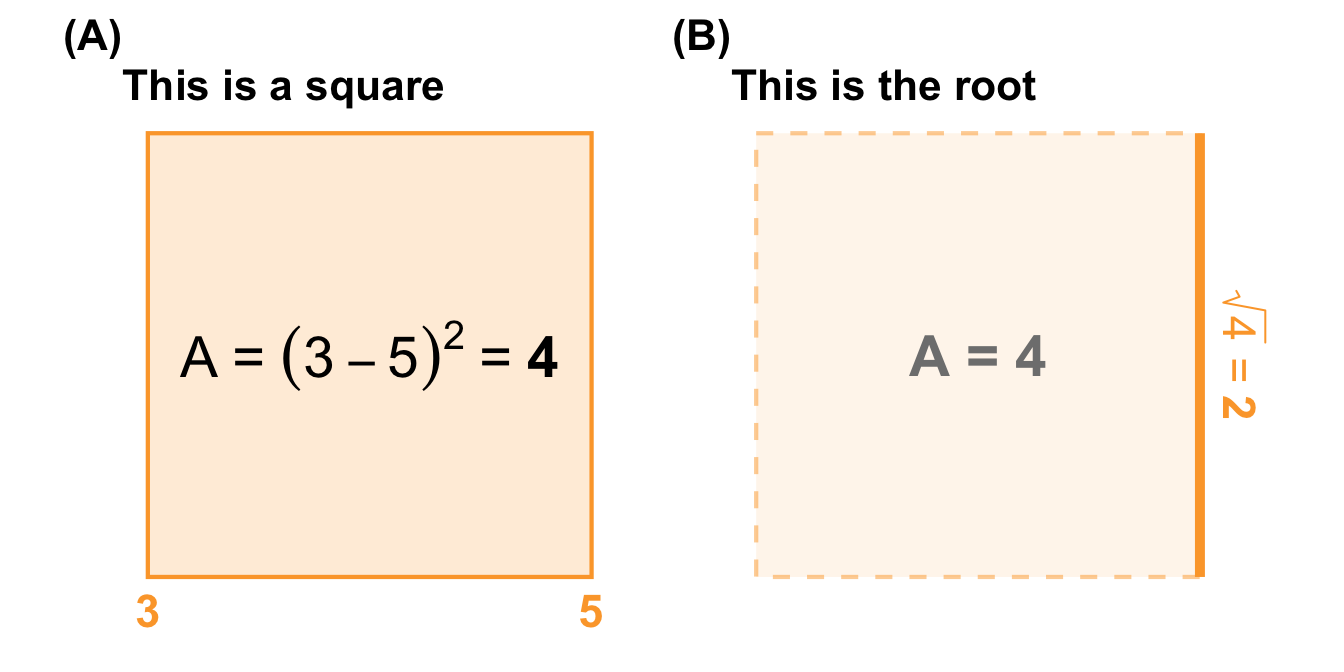
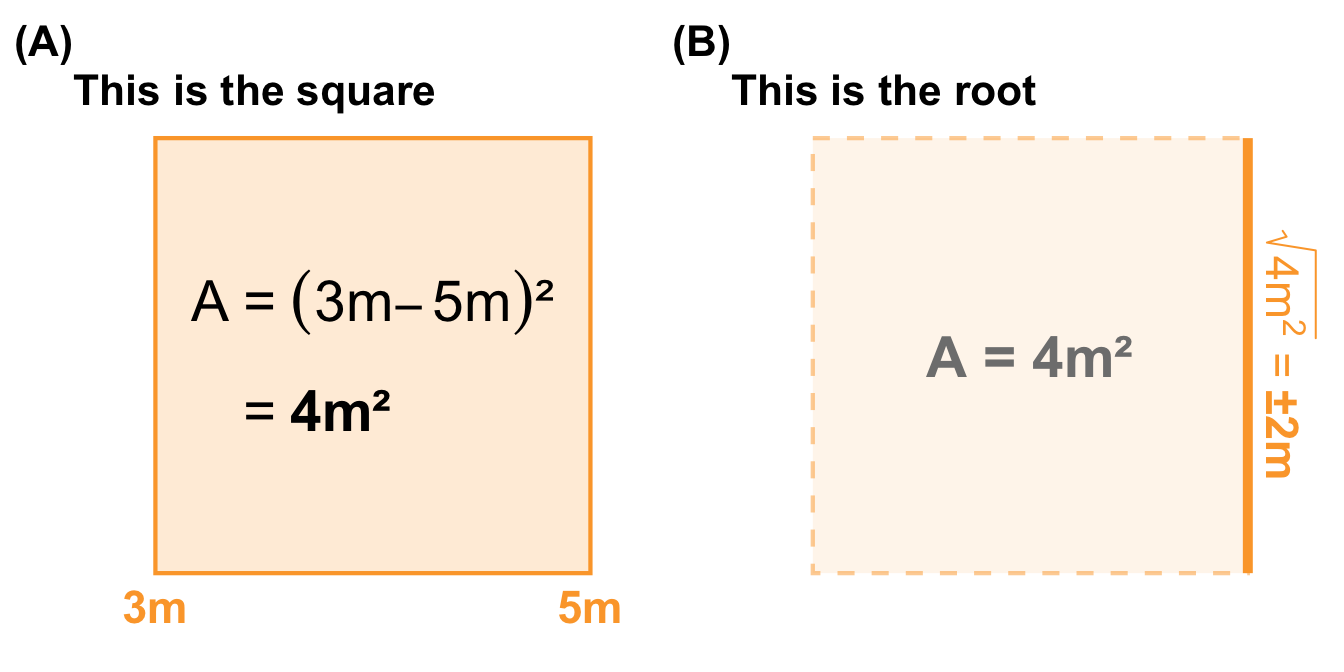
added

diff --git a/docs/chapter-52-it-started-with-a-line.html b/docs/chapter-52-it-started-with-a-line.html
@@ -415,7 +415,7 @@ window.Quarto = {
 </header>
 
 
-<p><em>Last modified on 04. January 2026 at 10:39:40</em></p>
+<p><em>Last modified on 04. January 2026 at 17:58:11</em></p>
 <blockquote class="blockquote">
 <p><em>“It started with a <del>kiss</del> line; […] How could I resist?” — <a href="https://www.youtube.com/watch?v=NosS1rpJ7tU">It Started With A Kiss by Hot Chocolate</a></em></p>
 </blockquote>
@@ -1042,53 +1042,55 @@ Figure&nbsp;12.2: foo
 <span id="cb1-53"><a href="#cb1-53" aria-hidden="true" tabindex="-1"></a>p1_square <span class="ot">&lt;-</span> <span class="fu">ggplot</span>() <span class="sc">+</span></span>
 <span id="cb1-54"><a href="#cb1-54" aria-hidden="true" tabindex="-1"></a>  <span class="fu">theme_void</span>() <span class="sc">+</span></span>
 <span id="cb1-55"><a href="#cb1-55" aria-hidden="true" tabindex="-1"></a>  <span class="fu">coord_equal</span>() <span class="sc">+</span></span>
-<span id="cb1-56"><a href="#cb1-56" aria-hidden="true" tabindex="-1"></a>  <span class="fu">scale_x_continuous</span>(<span class="at">breaks =</span> <span class="fu">seq</span>(<span class="sc">-</span><span class="dv">5</span>, <span class="dv">5</span>, <span class="dv">1</span>), <span class="at">limits =</span> <span class="fu">c</span>(<span class="sc">-</span><span class="dv">1</span>, <span class="fl">1.25</span>)) <span class="sc">+</span></span>
+<span id="cb1-56"><a href="#cb1-56" aria-hidden="true" tabindex="-1"></a>  <span class="fu">scale_x_continuous</span>(<span class="at">breaks =</span> <span class="fu">seq</span>(<span class="sc">-</span><span class="dv">5</span>, <span class="dv">5</span>, <span class="dv">1</span>), <span class="at">limits =</span> <span class="fu">c</span>(<span class="sc">-</span><span class="fl">1.25</span>, <span class="fl">1.25</span>)) <span class="sc">+</span></span>
 <span id="cb1-57"><a href="#cb1-57" aria-hidden="true" tabindex="-1"></a>  <span class="fu">scale_y_continuous</span>(<span class="at">breaks =</span> <span class="fu">seq</span>(<span class="sc">-</span><span class="dv">5</span>, <span class="dv">5</span>, <span class="dv">1</span>), <span class="at">limits =</span> <span class="fu">c</span>(<span class="sc">-</span><span class="fl">1.25</span>, <span class="dv">1</span>)) <span class="sc">+</span></span>
 <span id="cb1-58"><a href="#cb1-58" aria-hidden="true" tabindex="-1"></a>  <span class="fu">geom_tile</span>(<span class="fu">aes</span>(<span class="at">x =</span> <span class="dv">0</span>, <span class="at">y =</span> <span class="dv">0</span>, <span class="at">width =</span> <span class="dv">2</span>, <span class="at">height =</span> <span class="dv">2</span>),</span>
 <span id="cb1-59"><a href="#cb1-59" aria-hidden="true" tabindex="-1"></a>            <span class="at">fill =</span> <span class="st">"#FCA63680"</span>, <span class="at">color =</span> <span class="st">"#FCA636FF"</span>, <span class="at">alpha =</span> <span class="fl">0.2</span>, <span class="at">linewidth =</span> <span class="fl">0.75</span>) <span class="sc">+</span></span>
-<span id="cb1-60"><a href="#cb1-60" aria-hidden="true" tabindex="-1"></a>  <span class="fu">annotate</span>(<span class="st">"text"</span>, <span class="at">x =</span> <span class="dv">0</span>, <span class="at">y =</span> <span class="dv">0</span>, <span class="at">label =</span> <span class="fu">expression</span>(A<span class="sc">~</span><span class="st">"="</span><span class="sc">~</span>(<span class="dv">3-5</span>)<span class="sc">^</span><span class="dv">2</span><span class="sc">~</span><span class="st">"="</span><span class="sc">~</span><span class="fu">bold</span>(<span class="st">"4"</span>)), </span>
+<span id="cb1-60"><a href="#cb1-60" aria-hidden="true" tabindex="-1"></a>  <span class="fu">annotate</span>(<span class="st">"text"</span>, <span class="at">x =</span> <span class="dv">0</span>, <span class="at">y =</span> <span class="fl">0.25</span>, <span class="at">label =</span> <span class="fu">expression</span>(A<span class="sc">~</span><span class="st">"="</span><span class="sc">~</span>(<span class="dv">3</span><span class="sc">*</span><span class="st">"m"</span><span class="sc">*-</span><span class="dv">5</span><span class="sc">*</span><span class="st">"m"</span>)<span class="sc">*</span><span class="st">"²"</span>), </span>
 <span id="cb1-61"><a href="#cb1-61" aria-hidden="true" tabindex="-1"></a>           <span class="at">size =</span> <span class="fl">7.5</span>, <span class="at">color =</span> <span class="st">"black"</span>) <span class="sc">+</span></span>
-<span id="cb1-62"><a href="#cb1-62" aria-hidden="true" tabindex="-1"></a>  <span class="fu">annotate</span>(<span class="st">"text"</span>, <span class="at">x =</span> <span class="fu">c</span>(<span class="sc">-</span><span class="dv">1</span>, <span class="dv">1</span>), <span class="at">y =</span> <span class="sc">-</span><span class="fl">1.15</span>, <span class="at">label =</span> <span class="fu">c</span>(<span class="st">"3"</span>, <span class="st">"5"</span>), <span class="at">color =</span> <span class="st">"#FCA636FF"</span>, </span>
-<span id="cb1-63"><a href="#cb1-63" aria-hidden="true" tabindex="-1"></a>           <span class="at">size =</span> <span class="dv">6</span>, <span class="at">fontface =</span> <span class="dv">2</span>) <span class="sc">+</span></span>
-<span id="cb1-64"><a href="#cb1-64" aria-hidden="true" tabindex="-1"></a>  <span class="fu">labs</span>(<span class="at">title =</span> <span class="st">"This is a square"</span>) <span class="sc">+</span></span>
-<span id="cb1-65"><a href="#cb1-65" aria-hidden="true" tabindex="-1"></a>  <span class="fu">theme</span>(<span class="at">plot.title =</span> <span class="fu">element_text</span>(<span class="at">size =</span> <span class="dv">16</span>, <span class="at">face =</span> <span class="st">"bold"</span>),</span>
-<span id="cb1-66"><a href="#cb1-66" aria-hidden="true" tabindex="-1"></a>        <span class="at">plot.subtitle =</span> <span class="fu">element_text</span>(<span class="at">size =</span> <span class="dv">12</span>, <span class="at">face =</span> <span class="st">"italic"</span>))</span>
-<span id="cb1-67"><a href="#cb1-67" aria-hidden="true" tabindex="-1"></a></span>
-<span id="cb1-68"><a href="#cb1-68" aria-hidden="true" tabindex="-1"></a>p2_square_root <span class="ot">&lt;-</span> <span class="fu">ggplot</span>() <span class="sc">+</span></span>
-<span id="cb1-69"><a href="#cb1-69" aria-hidden="true" tabindex="-1"></a>  <span class="fu">theme_void</span>() <span class="sc">+</span></span>
-<span id="cb1-70"><a href="#cb1-70" aria-hidden="true" tabindex="-1"></a>  <span class="fu">coord_equal</span>() <span class="sc">+</span></span>
-<span id="cb1-71"><a href="#cb1-71" aria-hidden="true" tabindex="-1"></a>  <span class="fu">scale_x_continuous</span>(<span class="at">breaks =</span> <span class="fu">seq</span>(<span class="sc">-</span><span class="dv">5</span>, <span class="dv">5</span>, <span class="dv">1</span>), <span class="at">limits =</span> <span class="fu">c</span>(<span class="sc">-</span><span class="dv">1</span>, <span class="fl">1.25</span>)) <span class="sc">+</span></span>
-<span id="cb1-72"><a href="#cb1-72" aria-hidden="true" tabindex="-1"></a>  <span class="fu">scale_y_continuous</span>(<span class="at">breaks =</span> <span class="fu">seq</span>(<span class="sc">-</span><span class="dv">5</span>, <span class="dv">5</span>, <span class="dv">1</span>), <span class="at">limits =</span> <span class="fu">c</span>(<span class="sc">-</span><span class="fl">1.25</span>, <span class="dv">1</span>)) <span class="sc">+</span></span>
-<span id="cb1-73"><a href="#cb1-73" aria-hidden="true" tabindex="-1"></a>  <span class="fu">geom_tile</span>(<span class="fu">aes</span>(<span class="at">x =</span> <span class="dv">0</span>, <span class="at">y =</span> <span class="dv">0</span>, <span class="at">width =</span> <span class="dv">2</span>, <span class="at">height =</span> <span class="dv">2</span>), <span class="at">linetype =</span> <span class="dv">2</span>,</span>
-<span id="cb1-74"><a href="#cb1-74" aria-hidden="true" tabindex="-1"></a>            <span class="at">fill =</span> <span class="st">"#FCA63680"</span>, <span class="at">color =</span> <span class="st">"#FCA63680"</span>, <span class="at">alpha =</span> <span class="fl">0.1</span>, <span class="at">linewidth =</span> <span class="fl">0.75</span>) <span class="sc">+</span></span>
-<span id="cb1-75"><a href="#cb1-75" aria-hidden="true" tabindex="-1"></a>  <span class="fu">annotate</span>(<span class="st">"segment"</span>, <span class="at">x =</span> <span class="dv">1</span>, <span class="at">y =</span> <span class="sc">-</span><span class="dv">1</span>, <span class="at">xend =</span> <span class="dv">1</span>, <span class="at">yend =</span> <span class="dv">1</span>, <span class="at">linewidth =</span> <span class="fl">1.75</span>, <span class="at">color =</span> <span class="st">"#FCA636FF"</span>) <span class="sc">+</span></span>
-<span id="cb1-76"><a href="#cb1-76" aria-hidden="true" tabindex="-1"></a>  <span class="fu">annotate</span>(<span class="st">"text"</span>, <span class="at">x =</span> <span class="dv">0</span>, <span class="at">y =</span> <span class="dv">0</span>, <span class="at">label =</span> <span class="st">"A = 4"</span>, <span class="at">fontface =</span> <span class="dv">2</span>, </span>
-<span id="cb1-77"><a href="#cb1-77" aria-hidden="true" tabindex="-1"></a>           <span class="at">size =</span> <span class="fl">7.5</span>, <span class="at">color =</span> <span class="st">"gray50"</span>) <span class="sc">+</span></span>
-<span id="cb1-78"><a href="#cb1-78" aria-hidden="true" tabindex="-1"></a>  <span class="fu">annotate</span>(<span class="st">"text"</span>, <span class="at">x =</span> <span class="fl">1.2</span>, <span class="at">y =</span> <span class="dv">0</span>, <span class="at">label =</span> <span class="fu">expression</span>(<span class="fu">sqrt</span>(<span class="dv">4</span>)<span class="sc">~</span><span class="st">"="</span><span class="sc">~</span><span class="fu">bold</span>(<span class="st">"2"</span>)), <span class="at">size =</span> <span class="dv">6</span>, </span>
-<span id="cb1-79"><a href="#cb1-79" aria-hidden="true" tabindex="-1"></a>           <span class="at">color =</span> <span class="st">"#FCA636FF"</span>, <span class="at">angle =</span> <span class="sc">-</span><span class="dv">90</span>) <span class="sc">+</span></span>
-<span id="cb1-80"><a href="#cb1-80" aria-hidden="true" tabindex="-1"></a>  <span class="fu">labs</span>(<span class="at">title =</span> <span class="st">"This is the root"</span>) <span class="sc">+</span></span>
-<span id="cb1-81"><a href="#cb1-81" aria-hidden="true" tabindex="-1"></a>  <span class="fu">theme</span>(<span class="at">plot.title =</span> <span class="fu">element_text</span>(<span class="at">size =</span> <span class="dv">16</span>, <span class="at">face =</span> <span class="st">"bold"</span>),</span>
-<span id="cb1-82"><a href="#cb1-82" aria-hidden="true" tabindex="-1"></a>        <span class="at">plot.subtitle =</span> <span class="fu">element_text</span>(<span class="at">size =</span> <span class="dv">12</span>, <span class="at">face =</span> <span class="st">"italic"</span>))</span>
-<span id="cb1-83"><a href="#cb1-83" aria-hidden="true" tabindex="-1"></a></span>
-<span id="cb1-84"><a href="#cb1-84" aria-hidden="true" tabindex="-1"></a>p1_square <span class="sc">+</span> p2_square_root <span class="sc">+</span></span>
-<span id="cb1-85"><a href="#cb1-85" aria-hidden="true" tabindex="-1"></a>  <span class="fu">plot_layout</span>(<span class="at">ncol =</span> <span class="dv">2</span>) <span class="sc">+</span></span>
-<span id="cb1-86"><a href="#cb1-86" aria-hidden="true" tabindex="-1"></a>  <span class="fu">plot_annotation</span>(<span class="at">tag_levels =</span> <span class="st">'A'</span>, <span class="at">tag_prefix =</span> <span class="st">'('</span>, <span class="at">tag_suffix =</span> <span class="st">')'</span>) <span class="sc">&amp;</span></span>
-<span id="cb1-87"><a href="#cb1-87" aria-hidden="true" tabindex="-1"></a>  <span class="fu">theme</span>(<span class="at">plot.tag =</span> <span class="fu">element_text</span>(<span class="at">size =</span> <span class="dv">16</span>, <span class="at">face =</span> <span class="st">"bold"</span>))</span>
-<span id="cb1-88"><a href="#cb1-88" aria-hidden="true" tabindex="-1"></a><span class="in">```</span></span>
-<span id="cb1-89"><a href="#cb1-89" aria-hidden="true" tabindex="-1"></a></span>
-<span id="cb1-90"><a href="#cb1-90" aria-hidden="true" tabindex="-1"></a><span class="fu">## Glossary</span></span>
+<span id="cb1-62"><a href="#cb1-62" aria-hidden="true" tabindex="-1"></a>  <span class="fu">annotate</span>(<span class="st">"text"</span>, <span class="at">x =</span> <span class="sc">-</span><span class="fl">0.375</span>, <span class="at">y =</span> <span class="sc">-</span><span class="fl">0.25</span>, <span class="at">label =</span> <span class="fu">expression</span>(<span class="fu">phantom</span>(A)<span class="sc">~</span><span class="st">"="</span><span class="sc">~</span><span class="fu">bold</span>(<span class="st">"4m²"</span>)), </span>
+<span id="cb1-63"><a href="#cb1-63" aria-hidden="true" tabindex="-1"></a>           <span class="at">size =</span> <span class="fl">7.5</span>, <span class="at">color =</span> <span class="st">"black"</span>) <span class="sc">+</span></span>
+<span id="cb1-64"><a href="#cb1-64" aria-hidden="true" tabindex="-1"></a>  <span class="fu">annotate</span>(<span class="st">"text"</span>, <span class="at">x =</span> <span class="fu">c</span>(<span class="sc">-</span><span class="dv">1</span>, <span class="dv">1</span>), <span class="at">y =</span> <span class="sc">-</span><span class="fl">1.15</span>, <span class="at">label =</span> <span class="fu">c</span>(<span class="st">"3m"</span>, <span class="st">"5m"</span>), <span class="at">color =</span> <span class="st">"#FCA636FF"</span>, </span>
+<span id="cb1-65"><a href="#cb1-65" aria-hidden="true" tabindex="-1"></a>           <span class="at">size =</span> <span class="dv">6</span>, <span class="at">fontface =</span> <span class="dv">2</span>) <span class="sc">+</span></span>
+<span id="cb1-66"><a href="#cb1-66" aria-hidden="true" tabindex="-1"></a>  <span class="fu">labs</span>(<span class="at">title =</span> <span class="st">"This is the square"</span>) <span class="sc">+</span></span>
+<span id="cb1-67"><a href="#cb1-67" aria-hidden="true" tabindex="-1"></a>  <span class="fu">theme</span>(<span class="at">plot.title =</span> <span class="fu">element_text</span>(<span class="at">size =</span> <span class="dv">16</span>, <span class="at">face =</span> <span class="st">"bold"</span>),</span>
+<span id="cb1-68"><a href="#cb1-68" aria-hidden="true" tabindex="-1"></a>        <span class="at">plot.subtitle =</span> <span class="fu">element_text</span>(<span class="at">size =</span> <span class="dv">12</span>, <span class="at">face =</span> <span class="st">"italic"</span>))</span>
+<span id="cb1-69"><a href="#cb1-69" aria-hidden="true" tabindex="-1"></a></span>
+<span id="cb1-70"><a href="#cb1-70" aria-hidden="true" tabindex="-1"></a>p2_square_root <span class="ot">&lt;-</span> <span class="fu">ggplot</span>() <span class="sc">+</span></span>
+<span id="cb1-71"><a href="#cb1-71" aria-hidden="true" tabindex="-1"></a>  <span class="fu">theme_void</span>() <span class="sc">+</span></span>
+<span id="cb1-72"><a href="#cb1-72" aria-hidden="true" tabindex="-1"></a>  <span class="fu">coord_equal</span>() <span class="sc">+</span></span>
+<span id="cb1-73"><a href="#cb1-73" aria-hidden="true" tabindex="-1"></a>  <span class="fu">scale_x_continuous</span>(<span class="at">breaks =</span> <span class="fu">seq</span>(<span class="sc">-</span><span class="dv">5</span>, <span class="dv">5</span>, <span class="dv">1</span>), <span class="at">limits =</span> <span class="fu">c</span>(<span class="sc">-</span><span class="fl">1.25</span>, <span class="fl">1.25</span>)) <span class="sc">+</span></span>
+<span id="cb1-74"><a href="#cb1-74" aria-hidden="true" tabindex="-1"></a>  <span class="fu">scale_y_continuous</span>(<span class="at">breaks =</span> <span class="fu">seq</span>(<span class="sc">-</span><span class="dv">5</span>, <span class="dv">5</span>, <span class="dv">1</span>), <span class="at">limits =</span> <span class="fu">c</span>(<span class="sc">-</span><span class="fl">1.25</span>, <span class="dv">1</span>)) <span class="sc">+</span></span>
+<span id="cb1-75"><a href="#cb1-75" aria-hidden="true" tabindex="-1"></a>  <span class="fu">geom_tile</span>(<span class="fu">aes</span>(<span class="at">x =</span> <span class="dv">0</span>, <span class="at">y =</span> <span class="dv">0</span>, <span class="at">width =</span> <span class="dv">2</span>, <span class="at">height =</span> <span class="dv">2</span>), <span class="at">linetype =</span> <span class="dv">2</span>,</span>
+<span id="cb1-76"><a href="#cb1-76" aria-hidden="true" tabindex="-1"></a>            <span class="at">fill =</span> <span class="st">"#FCA63680"</span>, <span class="at">color =</span> <span class="st">"#FCA63680"</span>, <span class="at">alpha =</span> <span class="fl">0.1</span>, <span class="at">linewidth =</span> <span class="fl">0.75</span>) <span class="sc">+</span></span>
+<span id="cb1-77"><a href="#cb1-77" aria-hidden="true" tabindex="-1"></a>  <span class="fu">annotate</span>(<span class="st">"segment"</span>, <span class="at">x =</span> <span class="dv">1</span>, <span class="at">y =</span> <span class="sc">-</span><span class="dv">1</span>, <span class="at">xend =</span> <span class="dv">1</span>, <span class="at">yend =</span> <span class="dv">1</span>, <span class="at">linewidth =</span> <span class="fl">1.75</span>, <span class="at">color =</span> <span class="st">"#FCA636FF"</span>) <span class="sc">+</span></span>
+<span id="cb1-78"><a href="#cb1-78" aria-hidden="true" tabindex="-1"></a>  <span class="fu">annotate</span>(<span class="st">"text"</span>, <span class="at">x =</span> <span class="dv">0</span>, <span class="at">y =</span> <span class="dv">0</span>, <span class="at">label =</span> <span class="st">"A = 4m²"</span>, <span class="at">fontface =</span> <span class="dv">2</span>, </span>
+<span id="cb1-79"><a href="#cb1-79" aria-hidden="true" tabindex="-1"></a>           <span class="at">size =</span> <span class="fl">7.5</span>, <span class="at">color =</span> <span class="st">"gray50"</span>) <span class="sc">+</span></span>
+<span id="cb1-80"><a href="#cb1-80" aria-hidden="true" tabindex="-1"></a>  <span class="fu">annotate</span>(<span class="st">"text"</span>, <span class="at">x =</span> <span class="fl">1.2</span>, <span class="at">y =</span> <span class="dv">0</span>, <span class="at">label =</span> <span class="fu">expression</span>(<span class="fu">sqrt</span>(<span class="dv">4</span><span class="sc">*</span><span class="st">"m"</span><span class="sc">^</span><span class="dv">2</span>)<span class="sc">~</span><span class="st">"="</span><span class="sc">~</span><span class="fu">bold</span>(<span class="st">"±2m"</span>)), <span class="at">size =</span> <span class="dv">6</span>, </span>
+<span id="cb1-81"><a href="#cb1-81" aria-hidden="true" tabindex="-1"></a>           <span class="at">color =</span> <span class="st">"#FCA636FF"</span>, <span class="at">angle =</span> <span class="sc">-</span><span class="dv">90</span>) <span class="sc">+</span></span>
+<span id="cb1-82"><a href="#cb1-82" aria-hidden="true" tabindex="-1"></a>  <span class="fu">labs</span>(<span class="at">title =</span> <span class="st">"This is the root"</span>) <span class="sc">+</span></span>
+<span id="cb1-83"><a href="#cb1-83" aria-hidden="true" tabindex="-1"></a>  <span class="fu">theme</span>(<span class="at">plot.title =</span> <span class="fu">element_text</span>(<span class="at">size =</span> <span class="dv">16</span>, <span class="at">face =</span> <span class="st">"bold"</span>),</span>
+<span id="cb1-84"><a href="#cb1-84" aria-hidden="true" tabindex="-1"></a>        <span class="at">plot.subtitle =</span> <span class="fu">element_text</span>(<span class="at">size =</span> <span class="dv">12</span>, <span class="at">face =</span> <span class="st">"italic"</span>))</span>
+<span id="cb1-85"><a href="#cb1-85" aria-hidden="true" tabindex="-1"></a></span>
+<span id="cb1-86"><a href="#cb1-86" aria-hidden="true" tabindex="-1"></a>p1_square <span class="sc">+</span> p2_square_root <span class="sc">+</span></span>
+<span id="cb1-87"><a href="#cb1-87" aria-hidden="true" tabindex="-1"></a>  <span class="fu">plot_layout</span>(<span class="at">ncol =</span> <span class="dv">2</span>) <span class="sc">+</span></span>
+<span id="cb1-88"><a href="#cb1-88" aria-hidden="true" tabindex="-1"></a>  <span class="fu">plot_annotation</span>(<span class="at">tag_levels =</span> <span class="st">'A'</span>, <span class="at">tag_prefix =</span> <span class="st">'('</span>, <span class="at">tag_suffix =</span> <span class="st">')'</span>) <span class="sc">&amp;</span></span>
+<span id="cb1-89"><a href="#cb1-89" aria-hidden="true" tabindex="-1"></a>  <span class="fu">theme</span>(<span class="at">plot.tag =</span> <span class="fu">element_text</span>(<span class="at">size =</span> <span class="dv">16</span>, <span class="at">face =</span> <span class="st">"bold"</span>))</span>
+<span id="cb1-90"><a href="#cb1-90" aria-hidden="true" tabindex="-1"></a><span class="in">```</span></span>
 <span id="cb1-91"><a href="#cb1-91" aria-hidden="true" tabindex="-1"></a></span>
-<span id="cb1-92"><a href="#cb1-92" aria-hidden="true" tabindex="-1"></a>term</span>
+<span id="cb1-92"><a href="#cb1-92" aria-hidden="true" tabindex="-1"></a><span class="fu">## Glossary</span></span>
 <span id="cb1-93"><a href="#cb1-93" aria-hidden="true" tabindex="-1"></a></span>
-<span id="cb1-94"><a href="#cb1-94" aria-hidden="true" tabindex="-1"></a>: what does it mean.</span>
+<span id="cb1-94"><a href="#cb1-94" aria-hidden="true" tabindex="-1"></a>term</span>
 <span id="cb1-95"><a href="#cb1-95" aria-hidden="true" tabindex="-1"></a></span>
-<span id="cb1-96"><a href="#cb1-96" aria-hidden="true" tabindex="-1"></a><span class="fu">## The meaning of "Models of Reality" in this chapter.</span></span>
+<span id="cb1-96"><a href="#cb1-96" aria-hidden="true" tabindex="-1"></a>: what does it mean.</span>
 <span id="cb1-97"><a href="#cb1-97" aria-hidden="true" tabindex="-1"></a></span>
-<span id="cb1-98"><a href="#cb1-98" aria-hidden="true" tabindex="-1"></a><span class="ss">- </span>itemize with max. 5-6 words</span>
+<span id="cb1-98"><a href="#cb1-98" aria-hidden="true" tabindex="-1"></a><span class="fu">## The meaning of "Models of Reality" in this chapter.</span></span>
 <span id="cb1-99"><a href="#cb1-99" aria-hidden="true" tabindex="-1"></a></span>
-<span id="cb1-100"><a href="#cb1-100" aria-hidden="true" tabindex="-1"></a><span class="fu">## Summary</span></span>
+<span id="cb1-100"><a href="#cb1-100" aria-hidden="true" tabindex="-1"></a><span class="ss">- </span>itemize with max. 5-6 words</span>
 <span id="cb1-101"><a href="#cb1-101" aria-hidden="true" tabindex="-1"></a></span>
-<span id="cb1-102"><a href="#cb1-102" aria-hidden="true" tabindex="-1"></a><span class="fu">## References {.unnumbered}</span></span>
+<span id="cb1-102"><a href="#cb1-102" aria-hidden="true" tabindex="-1"></a><span class="fu">## Summary</span></span>
+<span id="cb1-103"><a href="#cb1-103" aria-hidden="true" tabindex="-1"></a></span>
+<span id="cb1-104"><a href="#cb1-104" aria-hidden="true" tabindex="-1"></a><span class="fu">## References {.unnumbered}</span></span>
 </code></pre></div><button title="Copy to Clipboard" class="code-copy-button" data-in-quarto-modal=""><i class="bi"></i></button></div>
 </div></div></div></div></div>
 </div> <!-- /content -->
